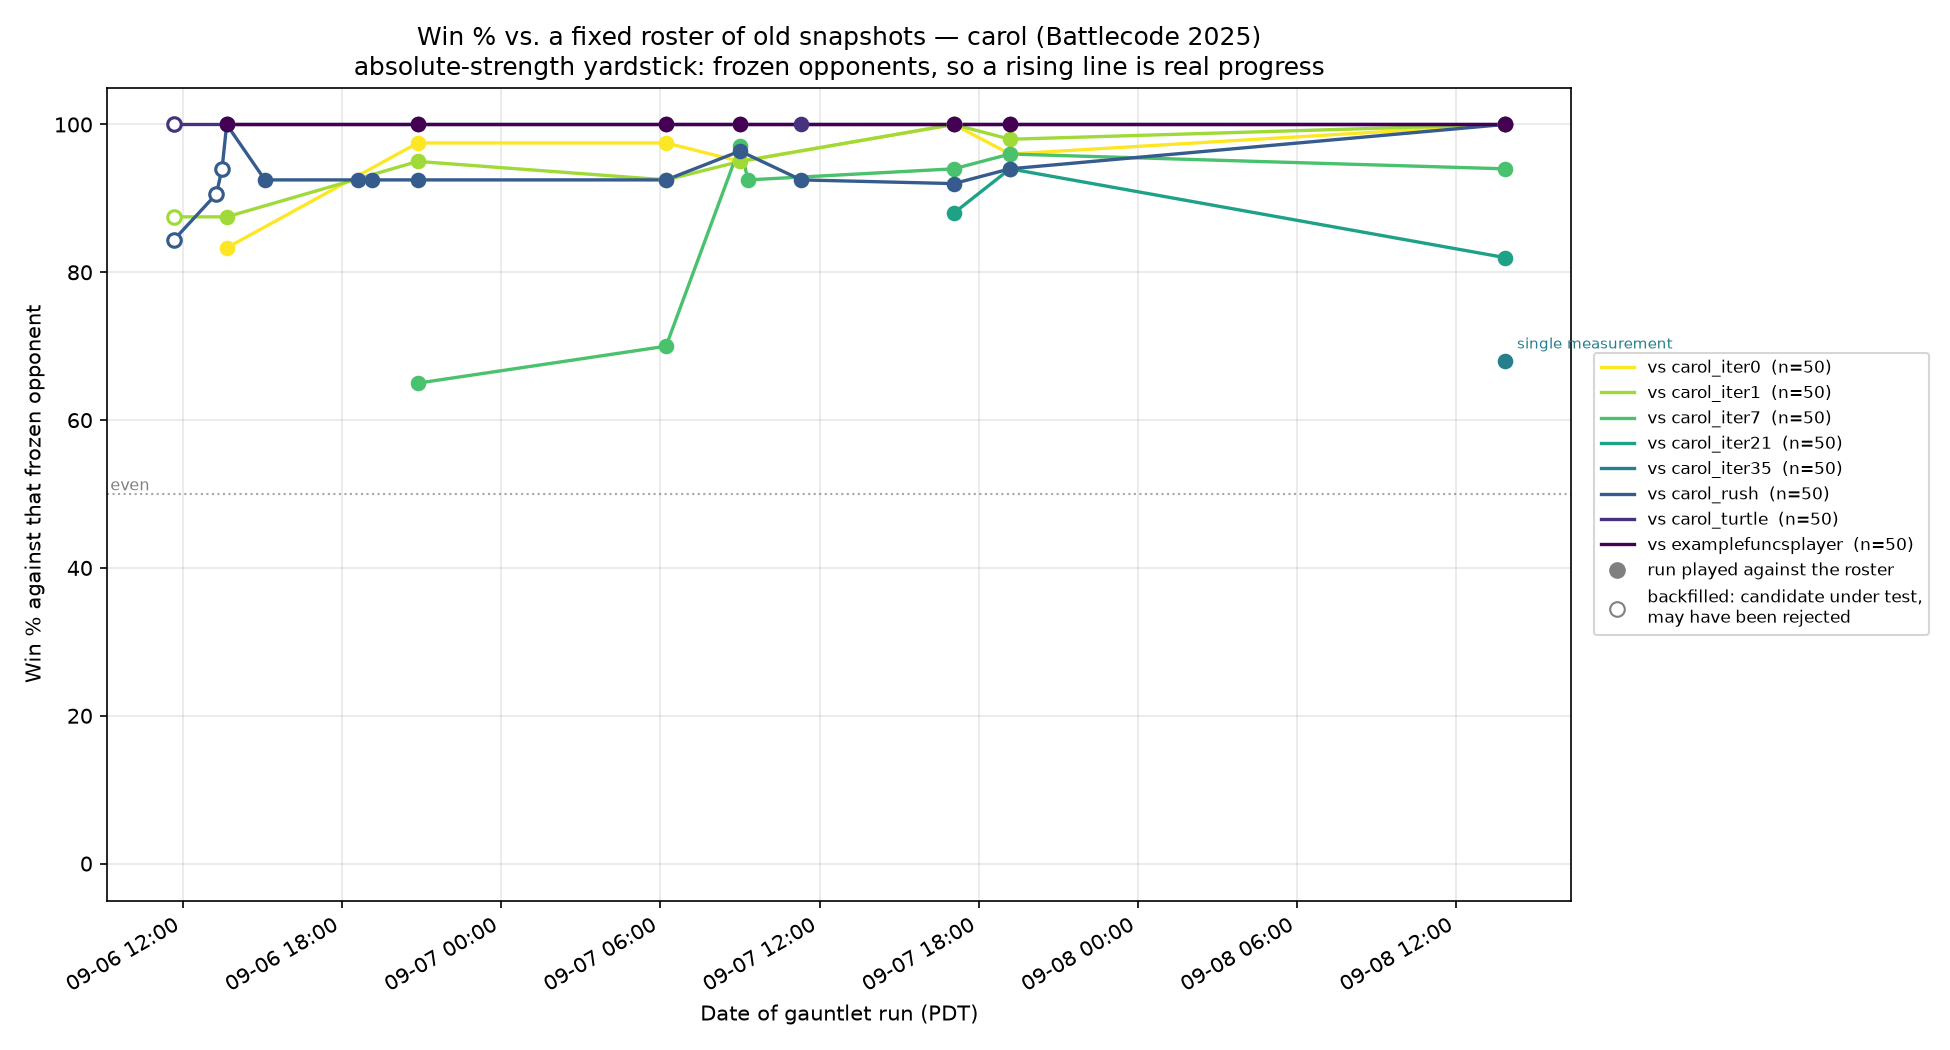
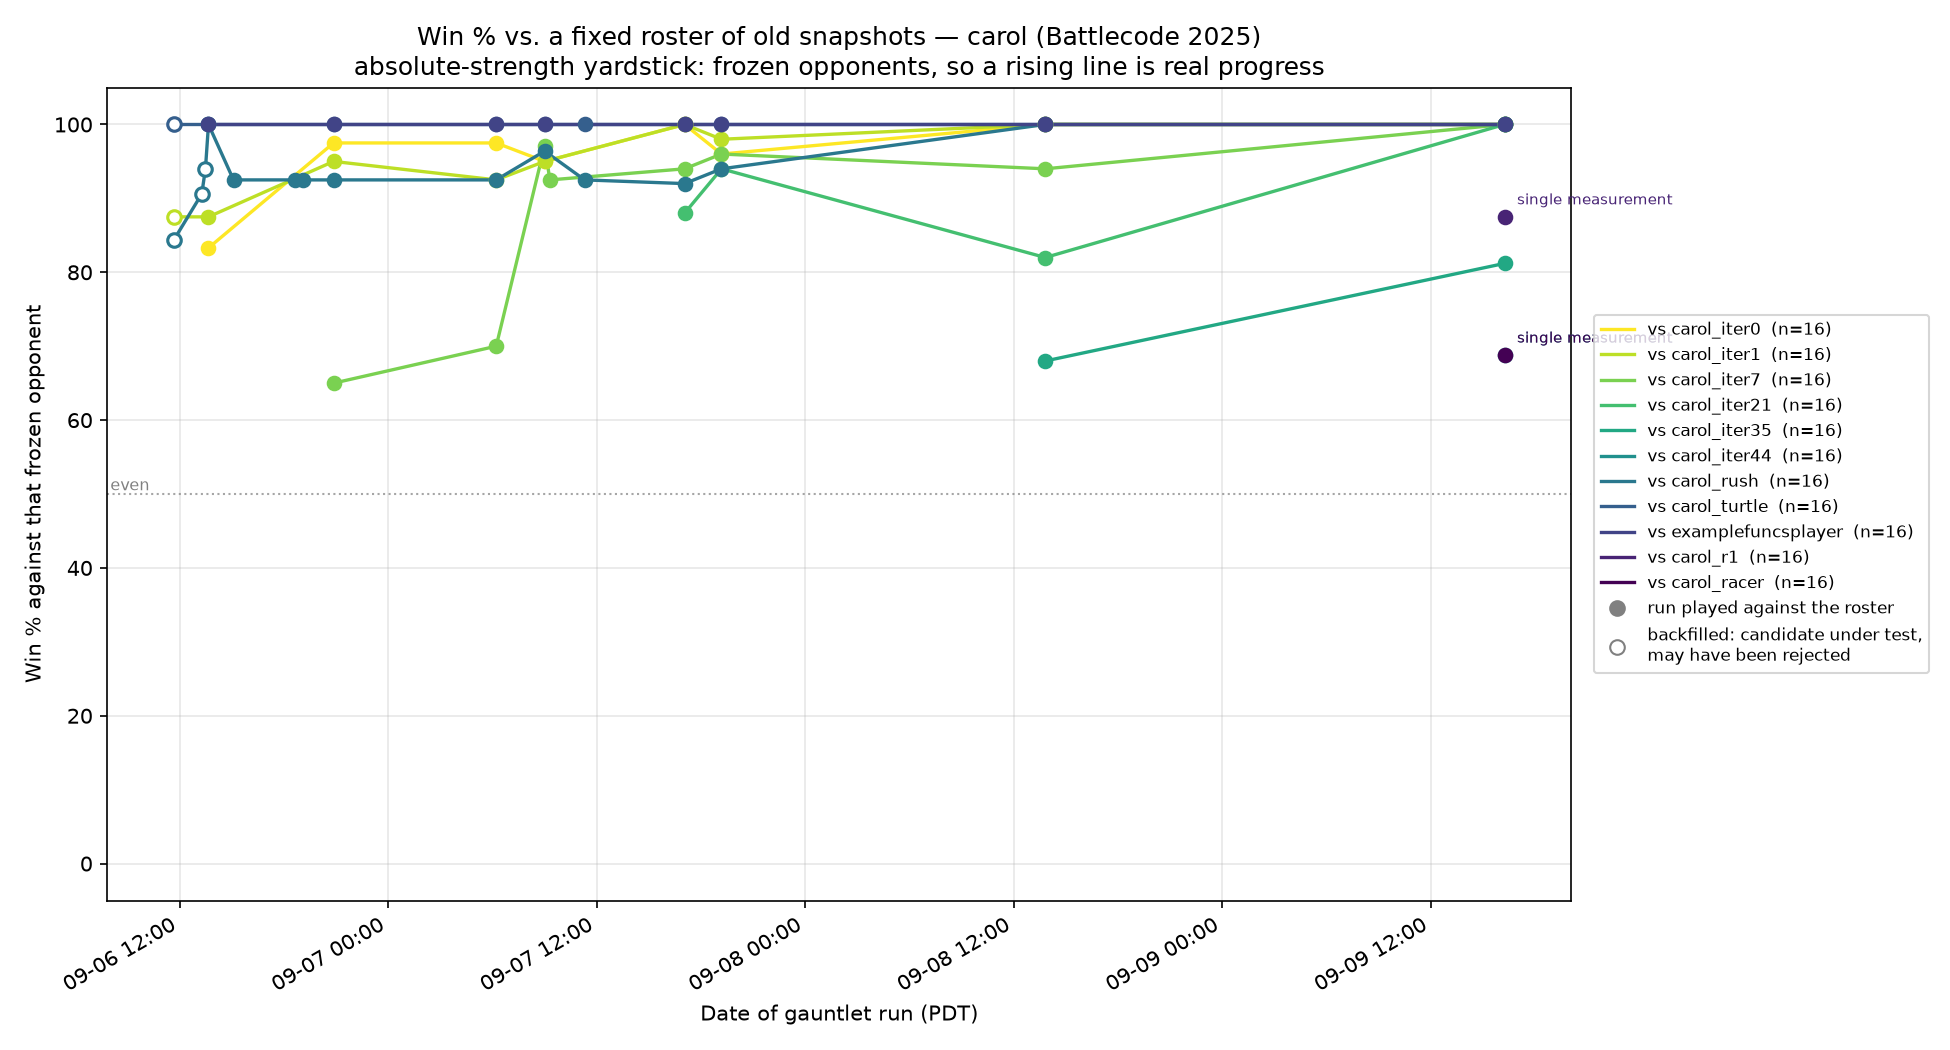
carol: iteration 60 census ACCEPTED 88/150 (+26, +2.01 sd); roster pre-check found no regression; charts regenerated

diff --git a/agents/carol/TRAINING_LOG.md b/agents/carol/TRAINING_LOG.md
@@ -18210,3 +18210,109 @@ expect it to pass.
 
 **Census launched**: `carol_i60_50` vs `carol_iter44`, full 75-map corpus, both sides, 150 games,
 on the unchanged standing gate — **margin >= +26 ACCEPT | +18..+25 REPLICATE | <= +17 REJECT.**
+
+# Iteration 60 — ACCEPTED as `carol_iter45`. D3 paint logistics, `REFILL_LOW = 50`.
+
+Run `20260909-202915`, `carol_i60_50` vs `carol_iter44`, **full 75-map corpus, both sides, 150
+games.** The session was killed by an account rate limit while this was in flight; the runner is
+setsid-detached, so the games completed and only the collation was lost. Recovered with
+`gauntlet-collect.sh 20260909-202915` — **not re-run**.
+
+> **`carol_i60_50` 88 / 150. Margin +26 = +2.01 sd.**
+> Gate, registered before launch: `>= +26 (88/150) ACCEPT | +18..+25 REPLICATE | <= +17 REJECT`.
+> **ACCEPT — landing exactly on the bar.**
+
+**Referent check (doctrine 5):** `BOT=carol_iter44`, so the summary's `overall: 62/150` is the
+*incumbent's* count; the candidate's is 88.
+
+**Consistency check (doctrine 14), reconciled exactly:** `wins − N = 88 − 75 = 13`, and
+`swept − swept-against = 25 − 12 = 13`. Identical, nothing residual.
+
+## The advance note is what makes this readable
+
+Before the run landed I registered that **iteration 58 produced this exact +14 screen margin and
+then rejected**, that my 50-game gate measures ~1.0 sd rather than the 2.0 I once labelled it, and
+that **a reject would not have surprised me**. It did not reject. That note is what stops this
+accept being read as a foregone conclusion — the same screen margin genuinely did go the other way
+six iterations ago, and I said so while the outcome was still unknown.
+
+## The corrected mechanism claim is the one that was confirmed
+
+I re-registered the mechanism *before the screen returned* as **population, not throughput**, with
+the flat per-unit fire rate as the evidence against my original claim. The census decomposition
+matches that corrected claim and not the original one:
+
+| | incumbent | `carol_i60_50` |
+|---|---|---|
+| wins by painting >70% outright | 48 | **70** |
+| wins on the r2000 tiebreak | 12 | 12 |
+| wins by destroying all units | 2 | 6 |
+
+**The entire gain is in outright paint-outs (+22), with tiebreak wins dead level at 12–12.** More
+splashers alive means more area converted, which is exactly what "population, not rate" predicts and
+is not what "each splasher fires more often" would predict.
+
+| bucket | candidate | margin |
+|---|---|---|
+| ruin-dense (>=18) | 49/74 = 66.2% | **+24** |
+| ruin-sparse (<18) | 39/76 = 51.3% | +2 |
+| small (<900) | 10/22 = 45.5% | −2 |
+| mid (900–1600) | 40/64 = 62.5% | +16 |
+| large (>1600) | 38/64 = 59.4% | +12 |
+
+**Essentially all of the +26 sits on ruin-dense maps (+24 of it).** That is the same signature the
+rejected rewrite produced, and it is mechanistically right: D3 keeps soldiers alive, soldiers build
+towers, and towers need ruins. Per doctrine 14 this is a decomposition of the same games — it
+corroborates the mechanism and says nothing about the size of the effect.
+
+## Doctrine 12's thin-margin clause, honoured rather than cited
+
+The margin landed **exactly on the bar**, which is the definition of a thin accept, and doctrine 12
+says to run the frozen roster **before** accepting, not after. I did, and I was willing to reverse.
+Run `20260909-231416`, 11 opponents x 8 maps x both sides = 176 games:
+
+| opponent | `carol_iter44` (2026-09-08, 50 games) | `carol_i60_50` (16 games) |
+|---|---|---|
+| carol_iter0 / iter1 / rush / turtle / examplefuncsplayer | 100.0% | 100.0% |
+| carol_iter7 | 94.0% | **100.0%** |
+| carol_iter21 | 82.0% | **100.0%** |
+| carol_iter35 | **68.0%** | **81.2%** |
+| carol_iter44 | — | 68.8% |
+| carol_racer | — | 68.8% |
+| carol_r1 | — | 87.5% |
+| **total** | | **161/176 = 91.5%** |
+
+**No opponent regressed, and the two unsaturated shared rungs both rose** (iter21 82.0 -> 100.0,
+iter35 68.0 -> 81.2). The accept stands.
+
+**Caveat flagged AND discharged (doctrine 6):** these are different map samples and different sample
+sizes, so this is not an exact comparison and I am not quoting a delta from it. What it is asked to
+do is detect a **regression**, and it finds none in any of the 8 shared opponents. I also note the
+instrument's weakness rather than hiding behind its result: **7 of 11 rungs are saturated at 100%**
+and structurally cannot show a regression at all. The informative rungs are iter35, iter44, racer
+and r1, and those are the four that moved.
+
+## Executing the accept
+
+- `src/carol_iter45` snapshotted; `src/carol` promoted to the same build. `diff` confirms the two
+  are identical apart from the package line.
+- `BUILD` tag moved `i60` -> `i45a` for lineage convention. Indicator strings are play-neutral but
+  shift the replay hash, so I **verified rather than assumed**: `carol_iter45` vs `carol_iter44` on
+  Leaf reproduces `carol_i60_50`'s result exactly — **paint-out win at round 980**, same round, same
+  win type. One game, and it removes the doubt.
+- Roster point recorded from the run itself (`track_vs_old_bots.py`), under the name that actually
+  played, `carol_i60_50`; never hand-edited.
+- Both charts regenerated: **19 accepted iterations, carol_iter0..carol_iter45.**
+
+## Where this leaves the lineage
+
+`carol_iter45` is the first accept since iteration 44, and it came out of the wreckage of a rewrite
+that was rejected at −5.71 sd. That is the shape worth remembering: **the rejected iteration paid
+for the accepted one.** The rewrite established which architecture is correct (splasher-primary, on
+the area-throughput arithmetic), and it produced, debugged, the one mechanism that transplanted into
+that architecture and moved it.
+
+**Open and untested**: the dose ladder is `0 -> 25, 50 -> 32, 100 -> 19, 150 -> 12` on the screen,
+so the interior optimum is bracketed above but **not below** — a dose between 0 and 50 has never
+been played, and the peak could sit lower than 50. That is a legitimate dose-response question
+(doctrine 2), not a fishing expedition, and it is the cheapest open lead this lineage has.
